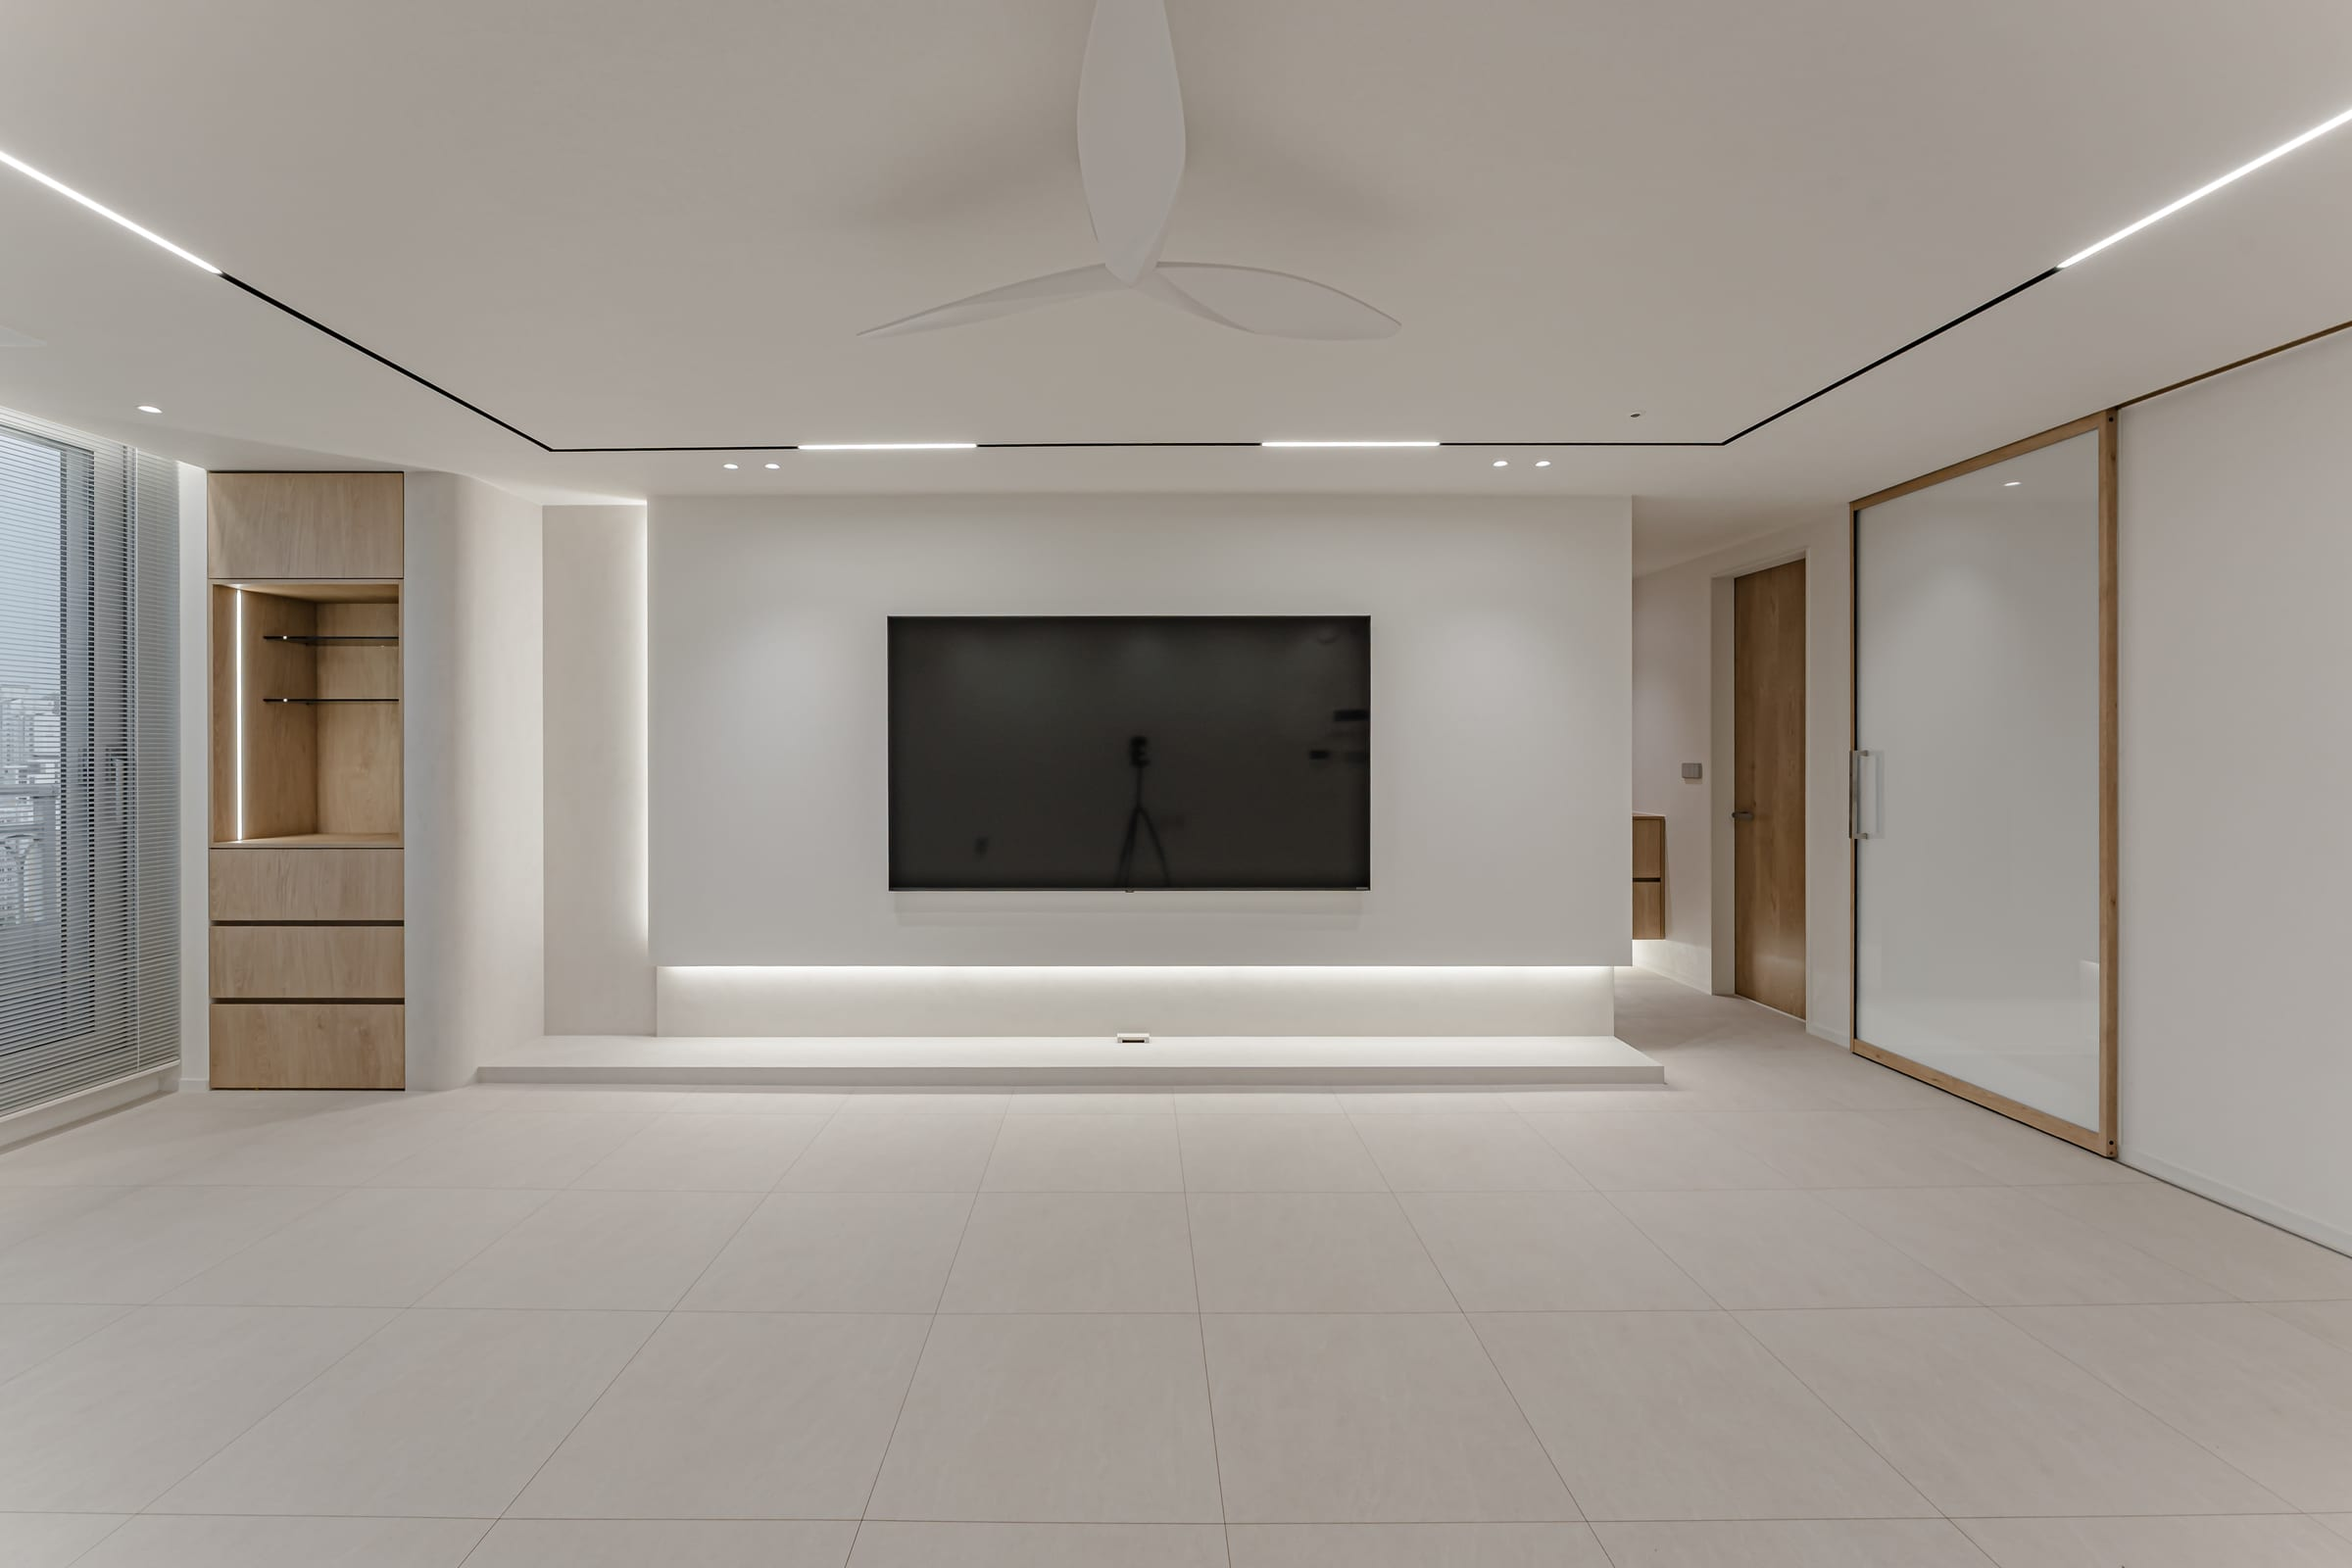
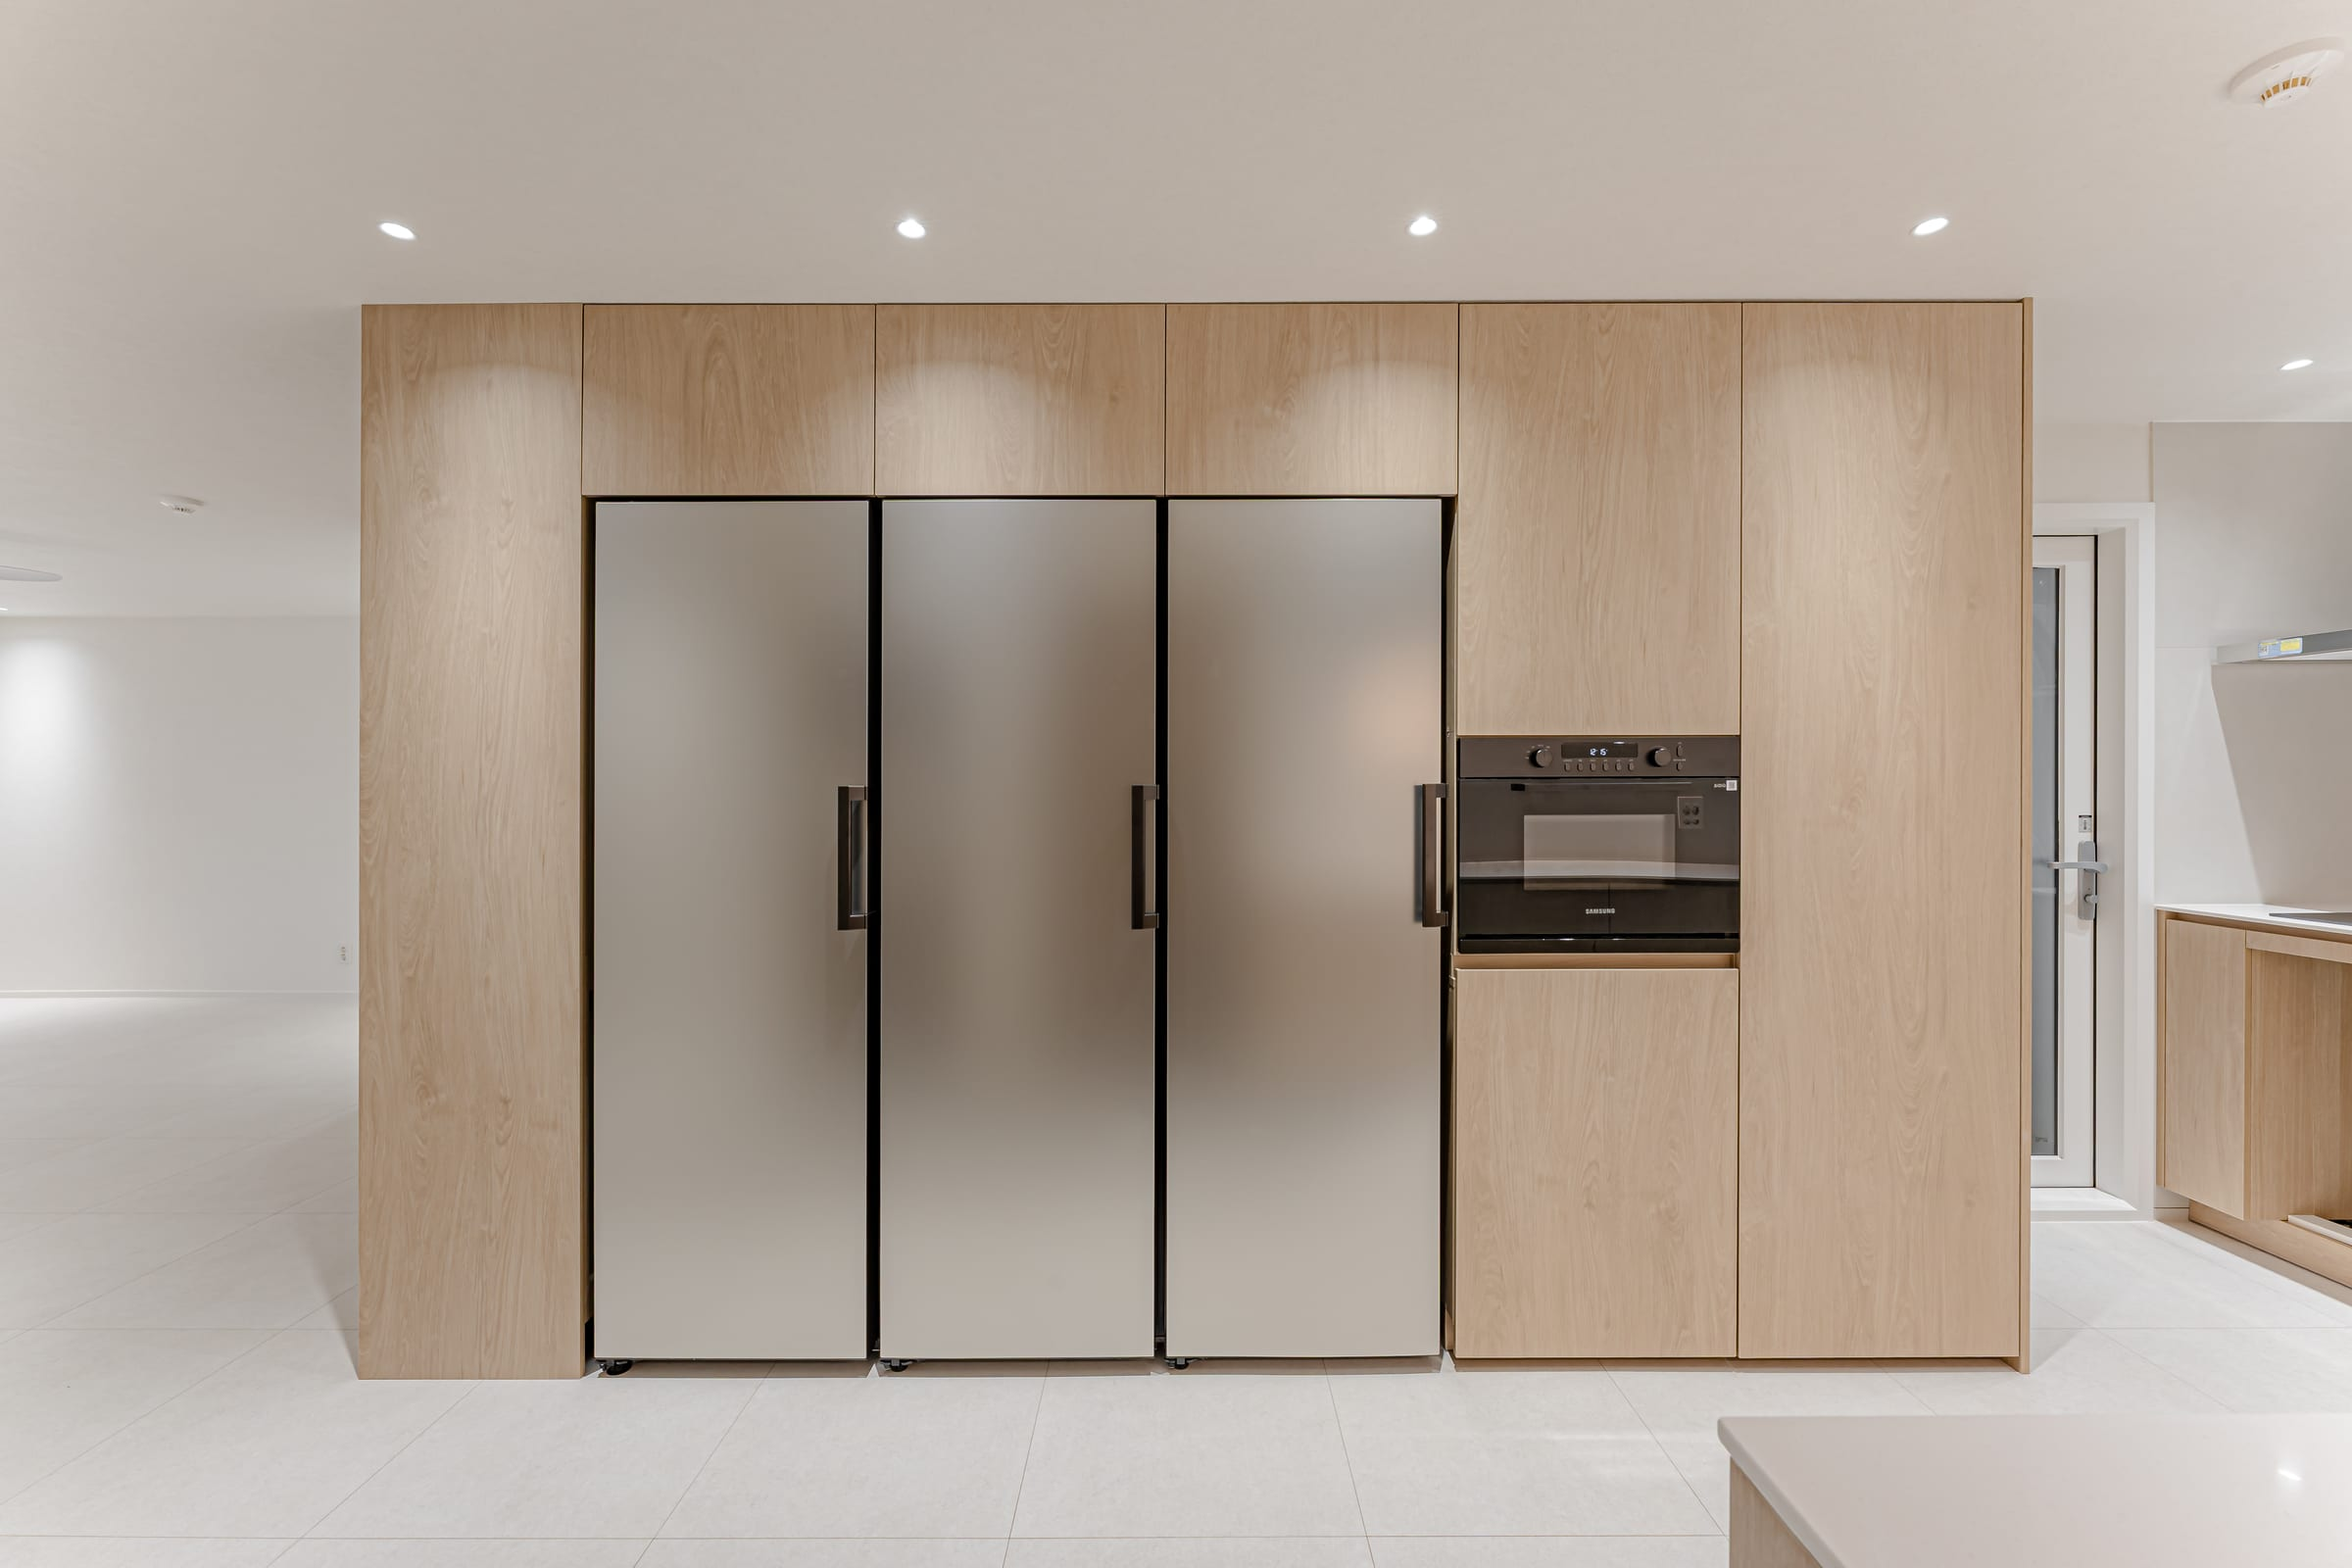
feat(home): 히어로 이미지 교체(냉장고 벽) + Ken Burns 우측 무빙
public/hero.jpg 새 이미지(6000x4000 → 2400x1600, 159KB)로 교체.
정지 히어로에 heroPanRight(4초 왕복) 애니메이션 적용 — 이미지가 영상처럼
좌우로 팬. GPU transform만, prefers-reduced-motion 시 정지.

diff --git a/src/app/page.tsx b/src/app/page.tsx
@@ -7,7 +7,7 @@ export default function HomePage() {
     <section className="relative flex min-h-screen items-center justify-center overflow-hidden">
       {/* 배경: public/hero.jpg 가 있으면 그것을, 없으면 시드 SVG로 폴백 */}
       <div
-        className="absolute inset-0 animate-zoom-slow bg-sand-200 bg-cover bg-center"
+        className="absolute inset-0 animate-hero-pan bg-sand-200 bg-cover bg-center"
         style={{ backgroundImage: "url('/hero.jpg'), url('/seed/hero.svg')" }}
         aria-hidden="true"
       />

diff --git a/src/app/globals.css b/src/app/globals.css
@@ -98,3 +98,16 @@
     opacity: 0;
   }
 }
+
+/* 히어로 Ken Burns — 우측 무빙(카메라 오른쪽 = 이미지 왼쪽 이동), 4초 왕복 */
+@keyframes heroPanRight {
+  from { transform: scale(1.12) translateX(3%); }
+  to   { transform: scale(1.12) translateX(-3%); }
+}
+.animate-hero-pan {
+  animation: heroPanRight 4s ease-in-out infinite alternate;
+  will-change: transform;
+}
+@media (prefers-reduced-motion: reduce) {
+  .animate-hero-pan { animation: none; }
+}
